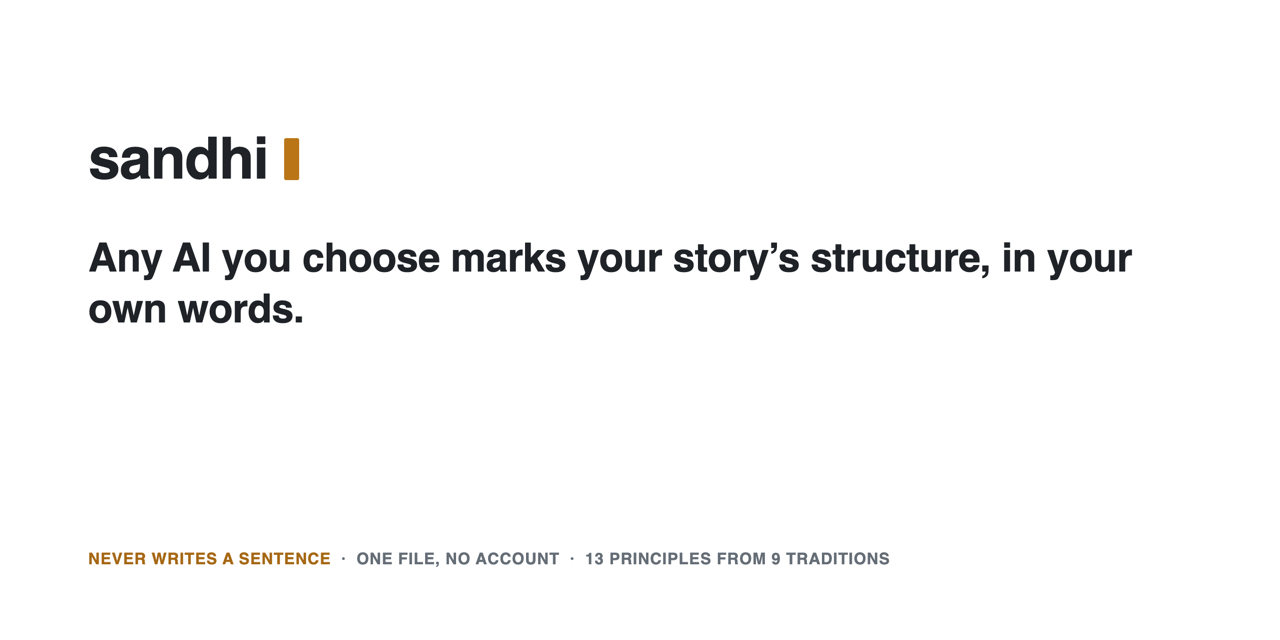
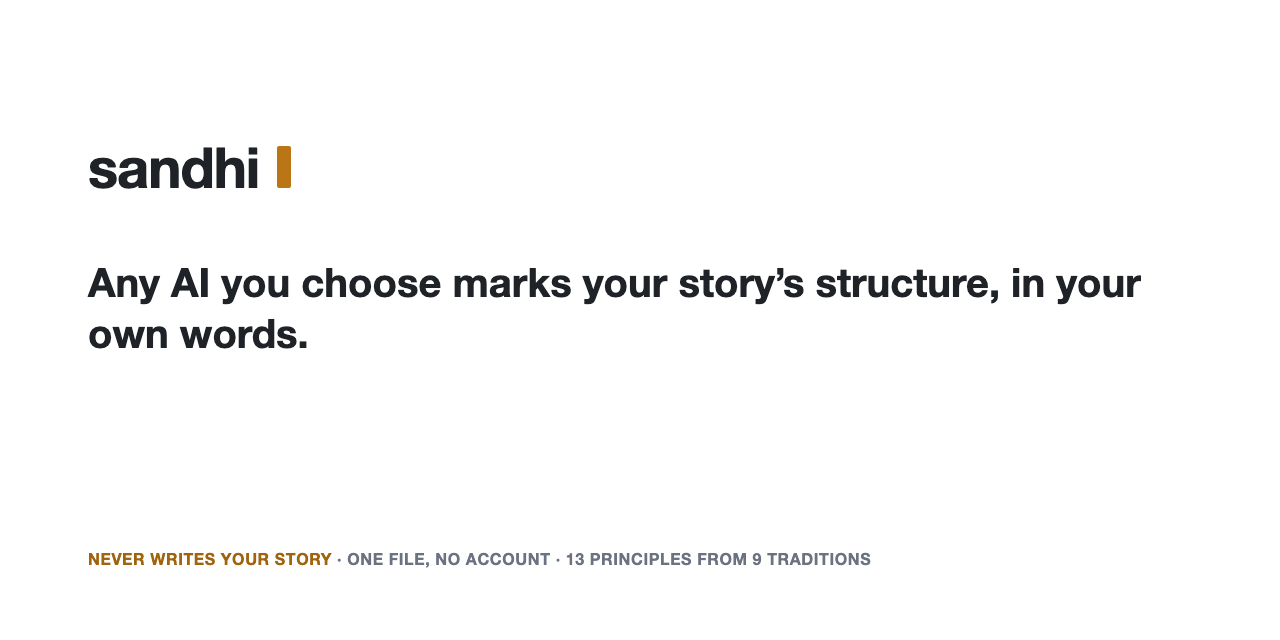
Launch copy from the stranger test: never writes your story; the AI is optional; a chip that invites
A cold reader of the README and the live page would try sandhi, but
doubted three things:
- "It never writes a sentence" overstates: options are one-line
  situations. The tagline is now "It never writes your story"
  (README, llms.txt, meta and og descriptions, the social card)
- the chip read "No reader" next to ?, like something broken; it now
  reads "Choose an AI reader", titled optional
- the README said the write tools were not measured (they were, C2/DE2)
  and named CLI models in developer terms; it now says so plainly, adds
  that the tool works with no AI key at all, and moves the chapters
  paragraph under Write on the spine
The social card has a source (marketing/social.html) and a renderer
(test/render-social.mjs). Gates one by one: core 92, ladder 27,
parity 0, face 183, a11y 0.

Changed region(s): [[0.0625, 0.375, 0.9062, 0.5625], [0.0625, 0.8438, 0.6875, 0.9062], [0.0625, 0.2188, 0.25, 0.3125]]

diff --git a/index.html b/index.html
@@ -5,12 +5,12 @@
 <meta name="viewport" content="width=device-width, initial-scale=1">
 <meta http-equiv="Content-Security-Policy" content="default-src 'none'; script-src 'unsafe-inline'; style-src 'unsafe-inline'; img-src 'self' data: blob:; connect-src 'self' https: http://127.0.0.1:* http://localhost:*; base-uri 'none'; form-action 'none'; object-src 'none'">
 <title>sandhi — the joints of a story</title>
-<meta name="description" content="Any AI you choose marks your story’s structure, in your own words. It never writes a sentence. One file, no account.">
+<meta name="description" content="Any AI you choose marks your story’s structure, in your own words. It never writes your story. One file, no account.">
 <link rel="canonical" href="https://sandhi.naklitechie.com/">
 <meta property="og:type" content="website">
 <meta property="og:url" content="https://sandhi.naklitechie.com/">
 <meta property="og:title" content="sandhi — the joints of a story">
-<meta property="og:description" content="Any AI you choose marks your story’s structure, in your own words. It never writes a sentence. One file, no account.">
+<meta property="og:description" content="Any AI you choose marks your story’s structure, in your own words. It never writes your story. One file, no account.">
 <meta property="og:image" content="https://sandhi.naklitechie.com/social.png">
 <meta property="og:image:width" content="1280">
 <meta property="og:image:height" content="640">
@@ -356,7 +356,7 @@ body:not(.ready) > :not(dialog) { visibility: hidden; }
       <p class="mlab" id="recent-h">Recent stories</p>
       <div id="recent" class="recent" aria-labelledby="recent-h"></div>
     </div></details>
-    <button class="btn chip-reader" data-ui="reader-settings" id="reader-chip" type="button" title="Who reads your story: your provider, a model server, or Gemini Nano">No reader</button>
+    <button class="btn chip-reader" data-ui="reader-settings" id="reader-chip" type="button" title="Optional: who reads your story, your provider, a model server, or Gemini Nano">Choose an AI reader</button>
     <button class="btn" data-ui="help" aria-label="About sandhi and the tour" title="About and tour (?)">?</button>
     <span id="savestate" aria-live="polite"></span>
     <input type="file" id="file" accept=".json,application/json" hidden>
@@ -2914,12 +2914,12 @@ async function chipText() {
   if (rcfg.rung === 'device') return 'Gemini Nano';
   if (rcfg.rung === 'machine') return machineChip();
   if (rcfg.rung === 'provider') return `${(LD.PROVIDERS[rcfg.provider] || { label: 'Provider' }).label} · ${(await vault.get(rcfg.provider)) ? 'your key' : 'no key yet'}`;
-  return 'No reader';
+  return 'Choose an AI reader';
 }
 async function renderChip() {
   const chip = $('#reader-chip'); if (!chip) return;
   const text = await chipText();
-  chip.textContent = text; chip.classList.toggle('none', text === 'No reader');
+  chip.textContent = text; chip.classList.toggle('none', !rcfg.rung);
 }
 readProgress = (m) => { $('#read-progress').textContent = m; };
 const countWords = () => { const n = C.wordCount($('#read-text').value); $('#read-count').textContent = n < 50 ? `${n} words · a model read needs 50` : `${n} words`; if (n >= 50 && /too short/.test($('#read-progress').textContent)) readProgress(''); };

diff --git a/marketing/social.html b/marketing/social.html
@@ -1,0 +1,15 @@
+<!doctype html>
+<!-- The repo's social preview and the site's og:image, 1280×640: node test/render-social.mjs renders it to social.png and marketing/social.png -->
+<html><head><meta charset="utf-8"><style>
+html,body{margin:0;width:1280px;height:640px;background:#fff;font-family:-apple-system,"Helvetica Neue",Arial,sans-serif;color:#1f2328}
+.card{position:relative;width:1280px;height:640px;box-sizing:border-box;padding:132px 88px 0}
+.name{font-size:56px;font-weight:700;letter-spacing:-1px;display:flex;align-items:center;gap:18px}
+.name i{display:inline-block;width:14px;height:42px;background:#BA7517;border-radius:2px}
+.tag{font-size:40px;font-weight:700;line-height:1.28;margin-top:56px;max-width:1080px}
+.foot{position:absolute;left:88px;bottom:72px;font-size:16px;font-weight:700;letter-spacing:.6px;text-transform:uppercase;color:#6b7280}
+.foot b{color:#a0640f}
+</style></head><body><div class="card">
+<div class="name">sandhi <i></i></div>
+<div class="tag">Any AI you choose marks your story’s structure, in your own words.</div>
+<div class="foot"><b>Never writes your story</b> · one file, no account · 13 principles from 9 traditions</div>
+</div></body></html>

diff --git a/README.md b/README.md
@@ -1,6 +1,6 @@
 <h1 align="center">sandhi</h1>
 
-<p align="center"><b>Any AI you choose marks your story's structure, in your own words. It never writes a sentence.</b></p>
+<p align="center"><b>Any AI you choose marks your story's structure, in your own words. It never writes your story.</b></p>
 
 <p align="center">One HTML file in your browser. No account, no server of ours, no telemetry.</p>
 
@@ -26,7 +26,7 @@ It opens on *The whistle*, a ten-beat demo story, with a short tour. Move a beat
 await window.sandhi.status()   // title, counts, checks by class, closest arc, undo depth
 ```
 
-Nothing to install, no account. Your story autosaves in this browser, and **Save** writes a `.sandhi.json` file.
+Nothing to install, no account, and no AI needed: with no key at all you lay a story on the spine, label its beats and read the chart and the checks by hand. Your story autosaves in this browser, and **Save** writes a `.sandhi.json` file.
 
 ## Why
 
@@ -36,7 +36,7 @@ sandhi lays the story on its spine and shows its joints. Each beat has a fortune
 
 ## Import a story, and let the AI you choose read it
 
-Long stories group into chapters: **Start a chapter here** in a beat's ⋯ menu, and the beats fold under a header, the threads filter by chapter, and the model sees the other chapters in one line each when the whole will not fit. Paste a story, a chapter or a whole manuscript: a long one with chapter headings is read a chapter at a time, one beat per chapter, and picks up where it stopped. Split it by paragraph, or let a model mark its beats, turn, low point, joints and threads. It returns labels and exact quotes only; sandhi cuts your own text where each quote lands and drops any quote that does not match. You see the result before it replaces anything, and Undo brings your story back.
+Paste a story, a chapter or a whole manuscript: a long one with chapter headings is read a chapter at a time, one beat per chapter, and picks up where it stopped. Split it by paragraph, or let a model mark its beats, turn, low point, joints and threads. It returns labels and exact quotes only; sandhi cuts your own text where each quote lands and drops any quote that does not match. You see the result before it replaces anything, and Undo brings your story back.
 
 You choose who reads it. Your own provider and key is the recommended way: OpenRouter, OpenAI, Anthropic, Google Gemini, Groq, Mistral, DeepSeek, Together, or any OpenAI-compatible URL. Keys stay in this browser and show only as a fingerprint. A model server on your machine (Ollama or LM Studio) or Gemini Nano in Chrome also read; in our tests they missed the turn. The dialog shows each reader's measured result.
 
@@ -44,7 +44,9 @@ You choose who reads it. Your own provider and key is the recommended way: OpenR
 
 Every beat carries labels you set: its spine stage, fortune, joint, a turn or low-point mark, whether luck or the hero's choice moves it, and the principles it serves. The checks compare those labels and name the next step: an empty beat or one with no principle, a slack joint, a plant that never pays off, a payoff with nothing planted, luck after the turn. They never guess from your prose.
 
-Stuck on a beat? **Ask about this beat** gets two to four questions from the reader you chose, then, if you ask, what could happen there: the obvious option set aside, and a few one-line situations with their joint, fortune and principle. **Ask the model about your joints** says which *therefore* or *but* reads as *and then*. Keep **tidbits**, things you notice in life, beside the story and place them in beats when they fit; mark a plant **left open on purpose** and the checks stop asking for its payoff. **Interview me** asks one question at a time about the weakest place in the story, and your answer goes where you send it. Type a **plot element** above the beats and the model proposes how the structure changes around it, new empty beats and relabels, as a diff you apply or close. **Sketch the shape you want** on the fortune chart: sandhi rings the beats that miss it, and the model can suggest a line for each. None of it enters the story and nothing writes an option into a beat; you write. Not yet measured with a real model.
+Long stories group into chapters: **Start a chapter here** in a beat's ⋯ menu, and the beats fold under a header, the threads filter by chapter, and the model sees the other chapters in one line each when the whole will not fit.
+
+Stuck on a beat? **Ask about this beat** gets two to four questions from the reader you chose, then, if you ask, what could happen there: the obvious option set aside, and a few one-line situations with their joint, fortune and principle. **Ask the model about your joints** says which *therefore* or *but* reads as *and then*. Keep **tidbits**, things you notice in life, beside the story and place them in beats when they fit; mark a plant **left open on purpose** and the checks stop asking for its payoff. **Interview me** asks one question at a time about the weakest place in the story, and your answer goes where you send it. Type a **plot element** above the beats and the model proposes how the structure changes around it, new empty beats and relabels, as a diff you apply or close. **Sketch the shape you want** on the fortune chart: sandhi rings the beats that miss it, and the model can suggest a line for each. None of it enters the story and nothing writes an option into a beat; you write. Measured with DeepSeek in the page: questions specific to the beat, options that set the obvious aside, joint verdicts that caught 2 of 3 wrongly labelled joints ([SPEC.md §3](SPEC.md)).
 
 ## Commands
 
@@ -64,7 +66,7 @@ Agents: `window.sandhi` exposes 51 tools over one command bus, and `navigator.mo
 cd test && npm install && npm test
 ```
 
-The gates refuse a demo story that does not match the explainer's data, a check with no test that fires it, a control with no tool behind it, a cold load over five seconds, an agent door that offers the accept or key tools or sends the story off the device on its own, and any serious accessibility violation. Reading quality is measured, not gated: on *The whistle* and three public-domain stories, codex `gpt-6-astra` and a Claude subagent marked the turn in all four with every quote matching the text, and DeepSeek in the page with a real key found it in 5 of 5, while a 4B local model found it in 5 of 12 reads, and Gemini Nano missed it in 8 of 8 and could not finish a 7,082-word story (table in [SPEC.md §5](SPEC.md)). The read dialog shows each reader's measured result.
+The gates refuse a demo story that does not match the explainer's data, a check with no test that fires it, a control with no tool behind it, a cold load over five seconds, an agent door that offers the accept or key tools or sends the story off the device on its own, and any serious accessibility violation. Reading quality is measured, not gated: on *The whistle* and three public-domain stories, two frontier models run from the command line marked the turn in all four with every quote matching the text, and DeepSeek in the page with a real key found it in 5 of 5, while a 4B local model found it in 5 of 12 reads, and Gemini Nano missed it in 8 of 8 and could not finish a 7,082-word story (table in [SPEC.md §5](SPEC.md)). The read dialog shows each reader's measured result.
 
 ## License
 
